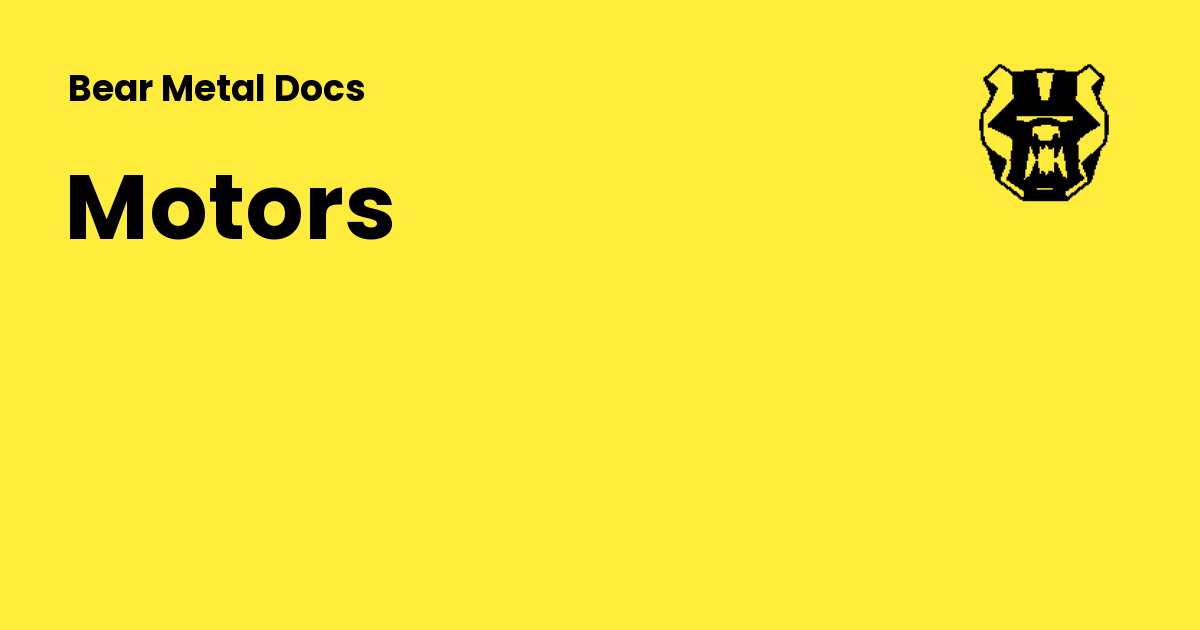
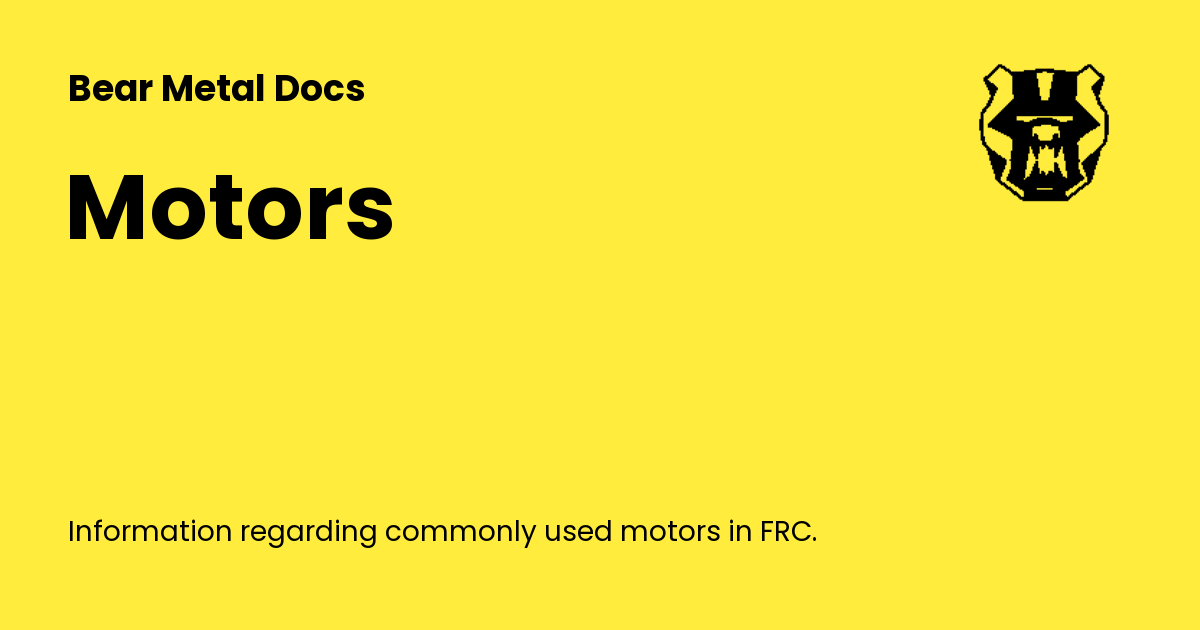
Deployed 141f106 with MkDocs version: 1.6.0

Changed region(s): [[0.0617, 0.8143, 0.6783, 0.8746]]

diff --git a/electronics/electrical-components/index.html b/electronics/electrical-components/index.html
@@ -6,6 +6,8 @@
       <meta charset="utf-8">
       <meta name="viewport" content="width=device-width,initial-scale=1">
       
+        <meta name="description" content="Information regarding various electrical components commonly used in FRC control systems.">
+      
       
       
         <link rel="canonical" href="https://bearmetalweb.github.io/electronics/electrical-components/">
@@ -55,7 +57,7 @@
       
         <meta  property="og:title"  content="Electrical System Components - Bear Metal Docs" >
       
-        <meta  property="og:description"  content="None" >
+        <meta  property="og:description"  content="Information regarding various electrical components commonly used in FRC control systems." >
       
         <meta  property="og:image"  content="https://bearmetalweb.github.io/assets/images/social/electronics/electrical-components.png" >
       
@@ -71,7 +73,7 @@
       
         <meta  name="twitter:title"  content="Electrical System Components - Bear Metal Docs" >
       
-        <meta  name="twitter:description"  content="None" >
+        <meta  name="twitter:description"  content="Information regarding various electrical components commonly used in FRC control systems." >
       
         <meta  name="twitter:image"  content="https://bearmetalweb.github.io/assets/images/social/electronics/electrical-components.png" >
       

diff --git a/electronics/pneumatic-components/index.html b/electronics/pneumatic-components/index.html
@@ -6,6 +6,8 @@
       <meta charset="utf-8">
       <meta name="viewport" content="width=device-width,initial-scale=1">
       
+        <meta name="description" content="Information regarding various pneumatic components commonly used in FRC.">
+      
       
       
         <link rel="canonical" href="https://bearmetalweb.github.io/electronics/pneumatic-components/">
@@ -55,7 +57,7 @@
       
         <meta  property="og:title"  content="Pneumatic System Components - Bear Metal Docs" >
       
-        <meta  property="og:description"  content="None" >
+        <meta  property="og:description"  content="Information regarding various pneumatic components commonly used in FRC." >
       
         <meta  property="og:image"  content="https://bearmetalweb.github.io/assets/images/social/electronics/pneumatic-components.png" >
       
@@ -71,7 +73,7 @@
       
         <meta  name="twitter:title"  content="Pneumatic System Components - Bear Metal Docs" >
       
-        <meta  name="twitter:description"  content="None" >
+        <meta  name="twitter:description"  content="Information regarding various pneumatic components commonly used in FRC." >
       
         <meta  name="twitter:image"  content="https://bearmetalweb.github.io/assets/images/social/electronics/pneumatic-components.png" >
       

diff --git a/electronics/concepts/index.html b/electronics/concepts/index.html
@@ -6,6 +6,8 @@
       <meta charset="utf-8">
       <meta name="viewport" content="width=device-width,initial-scale=1">
       
+        <meta name="description" content="Concepts that will be helpful to electrical subteam members.">
+      
       
       
         <link rel="canonical" href="https://bearmetalweb.github.io/electronics/concepts/">
@@ -55,7 +57,7 @@
       
         <meta  property="og:title"  content="Concepts - Bear Metal Docs" >
       
-        <meta  property="og:description"  content="None" >
+        <meta  property="og:description"  content="Concepts that will be helpful to electrical subteam members." >
       
         <meta  property="og:image"  content="https://bearmetalweb.github.io/assets/images/social/electronics/concepts.png" >
       
@@ -71,7 +73,7 @@
       
         <meta  name="twitter:title"  content="Concepts - Bear Metal Docs" >
       
-        <meta  name="twitter:description"  content="None" >
+        <meta  name="twitter:description"  content="Concepts that will be helpful to electrical subteam members." >
       
         <meta  name="twitter:image"  content="https://bearmetalweb.github.io/assets/images/social/electronics/concepts.png" >
       

diff --git a/electronics/motors/index.html b/electronics/motors/index.html
@@ -6,6 +6,8 @@
       <meta charset="utf-8">
       <meta name="viewport" content="width=device-width,initial-scale=1">
       
+        <meta name="description" content="Information regarding commonly used motors in FRC.">
+      
       
       
         <link rel="canonical" href="https://bearmetalweb.github.io/electronics/motors/">
@@ -55,7 +57,7 @@
       
         <meta  property="og:title"  content="Motors - Bear Metal Docs" >
       
-        <meta  property="og:description"  content="None" >
+        <meta  property="og:description"  content="Information regarding commonly used motors in FRC." >
       
         <meta  property="og:image"  content="https://bearmetalweb.github.io/assets/images/social/electronics/motors.png" >
       
@@ -71,7 +73,7 @@
       
         <meta  name="twitter:title"  content="Motors - Bear Metal Docs" >
       
-        <meta  name="twitter:description"  content="None" >
+        <meta  name="twitter:description"  content="Information regarding commonly used motors in FRC." >
       
         <meta  name="twitter:image"  content="https://bearmetalweb.github.io/assets/images/social/electronics/motors.png" >
       

diff --git a/electronics/index.html b/electronics/index.html
@@ -6,6 +6,8 @@
       <meta charset="utf-8">
       <meta name="viewport" content="width=device-width,initial-scale=1">
       
+        <meta name="description" content="Homepage for Electronics.">
+      
       
       
         <link rel="canonical" href="https://bearmetalweb.github.io/electronics/">
@@ -55,7 +57,7 @@
       
         <meta  property="og:title"  content="Electronics Documentation - Bear Metal Docs" >
       
-        <meta  property="og:description"  content="None" >
+        <meta  property="og:description"  content="Homepage for Electronics." >
       
         <meta  property="og:image"  content="https://bearmetalweb.github.io/assets/images/social/electronics/index.png" >
       
@@ -71,7 +73,7 @@
       
         <meta  name="twitter:title"  content="Electronics Documentation - Bear Metal Docs" >
       
-        <meta  name="twitter:description"  content="None" >
+        <meta  name="twitter:description"  content="Homepage for Electronics." >
       
         <meta  name="twitter:image"  content="https://bearmetalweb.github.io/assets/images/social/electronics/index.png" >
       
